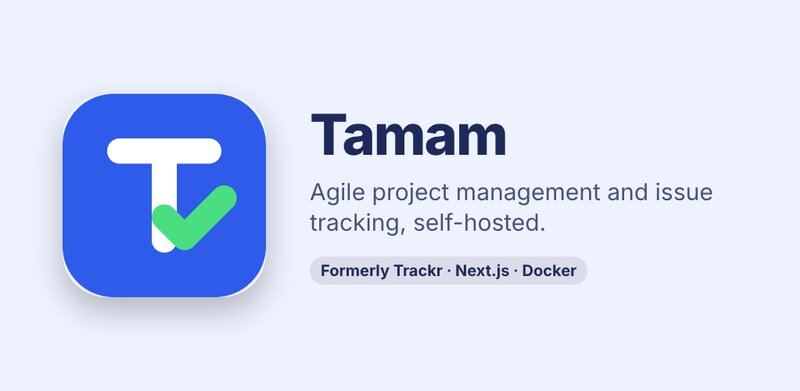
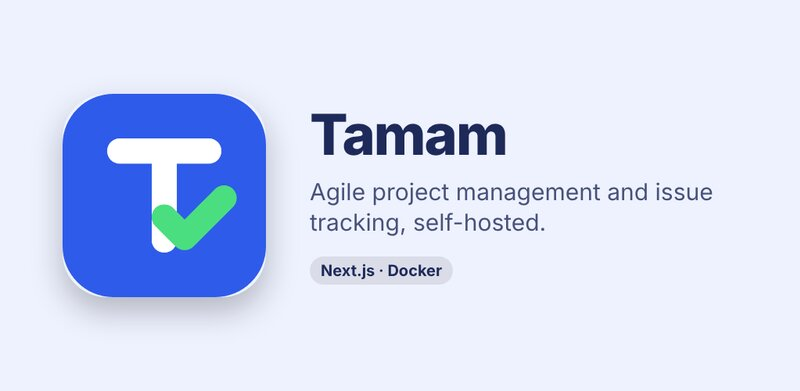
Drop the 'Formerly Trackr' note from the Tamam card and cover
Claude-Session: https://claude.ai/code/session_016kzvUzwFyukGSyQeKkb34D

Changed region(s): [[0.4062, 0.6445, 0.7188, 0.7366]]

diff --git a/index.html b/index.html
@@ -418,7 +418,7 @@
         <div class="cover"><img src="/img/projects/tamam.jpg" alt="" width="800" height="391" loading="lazy" /></div>
         <div class="body">
           <h3>Tamam</h3>
-          <p>Agile project management and issue tracking: boards, sprints, releases and ⌘K search. Formerly Trackr.</p>
+          <p>Agile project management and issue tracking: boards, sprints, releases and ⌘K search.</p>
           <div class="tags"><span>Web</span><span>Self-hosted</span><span>Next.js</span></div>
         </div>
       </article>
